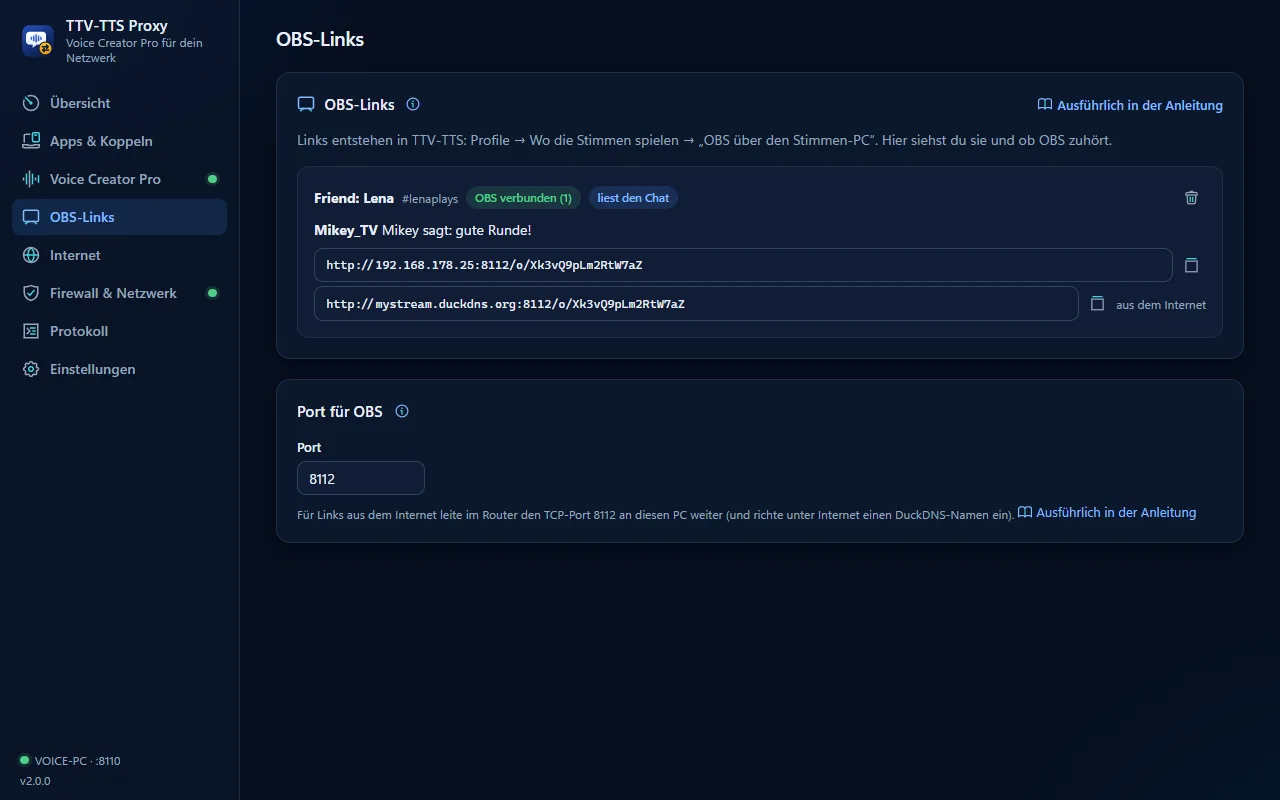
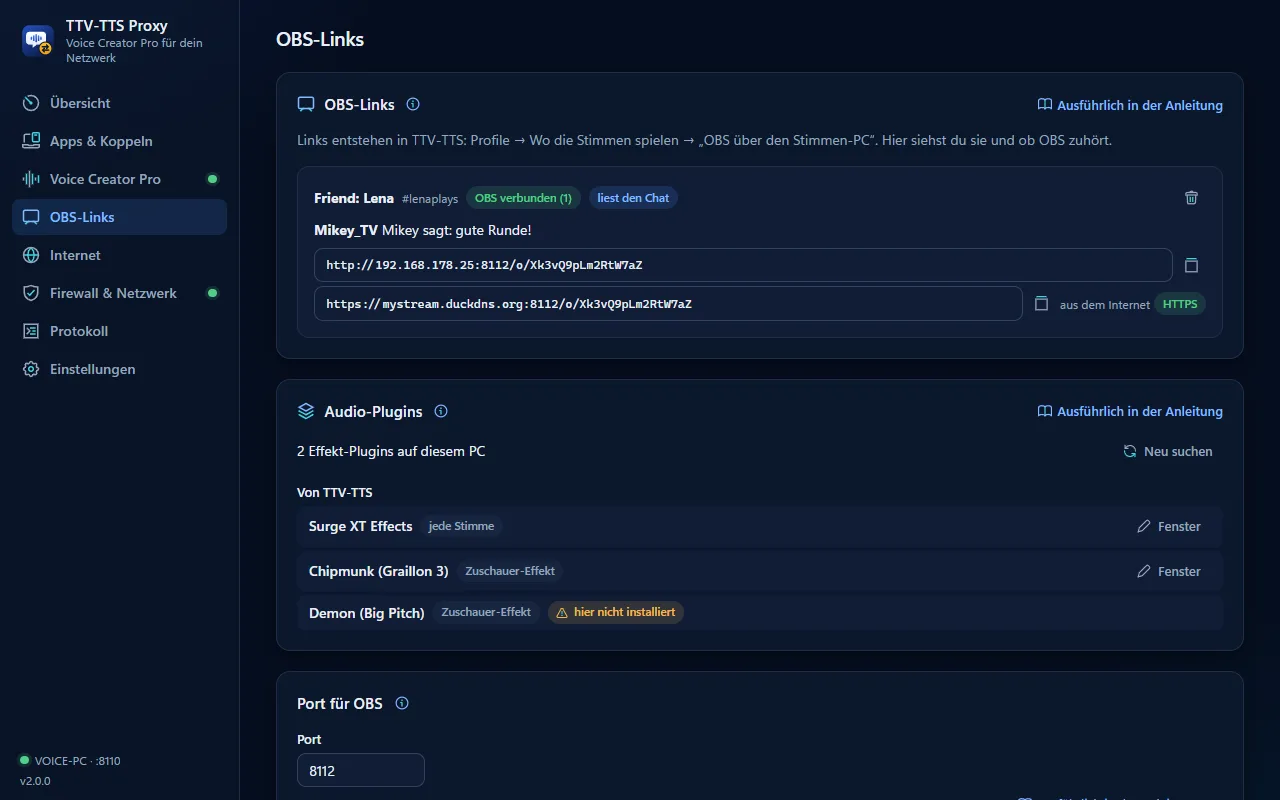
Docs EN+DE: HTTPS for internet links, UPnP, plugins on the voice host PC, plugin effects for viewers, system voices
New sections obs#https, friends#router (UPnP, FRITZ!Box), effects#host-plugins,
effects#viewer-plugins, settings#system-voice, profiles#viewer-plugins; new
screenshots (settings-viewer-plugins, settings-os-voices, proxy-internet-https)
and refreshed ones; singular/plural for the open-ports line; demo ?https state.

diff --git a/apps/app/src/i18n/de.ts b/apps/app/src/i18n/de.ts
@@ -866,7 +866,7 @@ const de: typeof en = {
     events: "Standardmäßig aus – Chatbots wie WizeBot oder Streamlabs sagen oft schon an. Eingeschaltet werden Abos, verschenkte Abos, Raids und Cheers in der Profilsprache vorgelesen. 20 verschenkte Abos auf einmal sind eine Ansage, nicht 21. Klappt ohne Twitch-Anmeldung.",
     eventsVoice: "Eine Stimme für alle Ansagen, damit sie sich vom Chat abheben. Jede Stimme aus Voice Creator Pro.",
     eventsTexts: "Leere Felder nehmen den angezeigten Satz. Platzhalter: {'{user}'}, {'{months}'}, {'{recipient}'}, {'{count}'}, {'{viewers}'}, {'{bits}'}, {'{reward}'}.",
-    osFallback: "Kann Voice Creator Pro oder sein PC gerade nicht sprechen (beendet, startet neu, nicht erreichbar), liest die Stimme deines Betriebssystems die Nachrichten, statt sie zu überspringen – schlicht, aber der Chat geht nicht verloren. Windows nimmt eine installierte Stimme der Nachrichtensprache, macOS \u201esay\u201c, Linux espeak-ng.",
+    osFallback: "Kann Voice Creator Pro oder sein PC gerade nicht sprechen (beendet, startet neu, nicht erreichbar), liest die Stimme deines Betriebssystems die Nachrichten, statt sie zu überspringen – schlicht, aber der Chat geht nicht verloren. Welche Stimme pro Sprache, wie schnell und wie hoch: Einstellungen \u2192 Systemstimme.",
     hotkeys: "Die funktionieren überall, auch wenn ein Spiel oder OBS im Vordergrund ist. Feld anklicken und die Kombination drücken; Esc bricht ab. Eine Kombination, die ein anderes Programm schon nutzt, geht nicht.",
     pending: "Freigabe ist für dieses Profil an: Nichts wird vorgelesen, bevor du es hier (oder per Tastenkürzel) freigibst. Was niemand freigibt, wird nach der eingestellten Zeit verworfen.",
     approval: "Für heikle Streams: Jede Nachricht wartet auf der Live-Seite, bis du sie per Klick oder Tastenkürzel freigibst.",

diff --git a/apps/app/src/i18n/en.ts b/apps/app/src/i18n/en.ts
@@ -864,7 +864,7 @@ export default {
     events: "Off by default – chat bots like WizeBot or Streamlabs often announce already. When on, subs, gifted subs, raids and cheers are read in the profile's language. 20 gifted subs at once are one announcement, not 21. Works without a Twitch login.",
     eventsVoice: "One voice for all announcements, so they sound different from chat. Any voice of Voice Creator Pro.",
     eventsTexts: "Empty fields use the sentence shown. Placeholders: {'{user}'}, {'{months}'}, {'{recipient}'}, {'{count}'}, {'{viewers}'}, {'{bits}'}, {'{reward}'}.",
-    osFallback: "If Voice Creator Pro or its PC can't speak (stopped, restarting, unreachable), your operating system's own voice reads the messages instead of skipping them – plain, but chat isn't lost. Windows uses an installed voice of the message's language, macOS \u201csay\u201d, Linux espeak-ng.",
+    osFallback: "If Voice Creator Pro or its PC can't speak (stopped, restarting, unreachable), your operating system's own voice reads the messages instead of skipping them – plain, but chat isn't lost. Which voice per language, how fast and how high: Settings \u2192 System voice.",
     hotkeys: "These work everywhere, also while a game or OBS has the focus. Click a field and press the combination; Esc cancels. A combination another program already uses can't be taken.",
     pending: "Approval is on for this profile: nothing is read until you OK it here (or with the hotkey). Messages nobody approves are dropped after the set minutes.",
     approval: "For sensitive streams: every message waits on the Live page until you approve it with a click or a hotkey.",

diff --git a/packages/ui/src/i18n/friends.ts b/packages/ui/src/i18n/friends.ts
@@ -18,7 +18,7 @@ export const friendsEn = {
   duckSaved: "Saved.",
   upnpToggle: "Open the ports in the router by itself (UPnP)",
   upnpHint: "Only the ports of what you share on the internet, only to this PC, closed again when not needed.",
-  upnpOpen: "Ports {ports} are open in the router ({router}) to this PC.",
+  upnpOpen: "Port {ports} is open in the router ({router}) to this PC. | Ports {ports} are open in the router ({router}) to this PC.",
   upnpNoPublic: "Your connection has no public IPv4 address of its own (DS-Lite or carrier NAT; the router got {ip}): nothing from the internet gets through, open ports or not. Ask your provider for a public IPv4 address, or use Tailscale.",
   upnpOff: "Off: forward the ports in the router yourself.",
   upnpAsking: "Asking the router …",
@@ -87,7 +87,7 @@ export const friendsDe = {
   duckSaved: "Gespeichert.",
   upnpToggle: "Ports im Router selbst öffnen (UPnP)",
   upnpHint: "Nur die Ports dessen, was du im Internet teilst, nur zu diesem PC, und wieder geschlossen, wenn sie nicht mehr gebraucht werden.",
-  upnpOpen: "Ports {ports} sind im Router ({router}) zu diesem PC offen.",
+  upnpOpen: "Port {ports} ist im Router ({router}) zu diesem PC offen. | Ports {ports} sind im Router ({router}) zu diesem PC offen.",
   upnpNoPublic: "Dein Anschluss hat keine eigene öffentliche IPv4-Adresse (DS-Lite oder Carrier-NAT; der Router bekam {ip}): Aus dem Internet kommt nichts durch, offene Ports hin oder her. Frag deinen Anbieter nach einer öffentlichen IPv4-Adresse, oder nimm Tailscale.",
   upnpOff: "Aus: Leite die Ports im Router selbst weiter.",
   upnpAsking: "Frage den Router …",

diff --git a/packages/ui/src/components/RouterStatus.vue b/packages/ui/src/components/RouterStatus.vue
@@ -20,7 +20,7 @@ const kind = computed(() => {
 
 <template>
   <div class="text-sm" data-upnp>
-    <p v-if="kind === 'open'" class="flex items-start gap-1.5 text-ok"><CircleCheck :size="15" class="mt-0.5 shrink-0" />{{ t("friends.upnpOpen", { ports: status!.mapped.join(", "), router: status!.router ?? "?" }) }}</p>
+    <p v-if="kind === 'open'" class="flex items-start gap-1.5 text-ok"><CircleCheck :size="15" class="mt-0.5 shrink-0" />{{ t("friends.upnpOpen", { ports: status!.mapped.join(", "), router: status!.router ?? "?" }, status!.mapped.length) }}</p>
     <p v-else-if="kind === 'nopublic'" class="flex items-start gap-1.5 text-warn"><Warning :size="15" class="mt-0.5 shrink-0" />{{ t("friends.upnpNoPublic", { ip: status!.external_ip ?? "?" }) }}</p>
     <p v-else-if="kind === 'failed'" class="flex items-start gap-1.5 text-warn"><Warning :size="15" class="mt-0.5 shrink-0" />{{ status!.error }}</p>
     <p v-else-if="kind === 'off'" class="flex items-start gap-1.5 text-muted"><Network :size="15" class="mt-0.5 shrink-0" />{{ t("friends.upnpOff") }}</p>

diff --git a/packages/ui/src/friends.ts b/packages/ui/src/friends.ts
@@ -128,6 +128,11 @@ export function demoFriends(): FriendsApi {
     https: { domain: null, valid_from: null, valid_until: null, renew_at: null, step: null, error: null, error_at: null, next_try: null, staging: false },
     obs_online: true,
   };
+  // ?https: a name and a valid certificate already (screenshots)
+  if (typeof location !== "undefined" && new URLSearchParams(location.search).has("https")) {
+    Object.assign(internet, { domain: "mystream", duckdns_token: true, duckdns_at: now() - 120, duckdns_result: "OK", address: "mystream.duckdns.org:8111" });
+    internet.https = { ...internet.https!, domain: "mystream.duckdns.org", valid_from: now() - 3 * 86400, valid_until: now() + 87 * 86400, renew_at: now() + 57 * 86400 };
+  }
   const wait = (ms: number) => new Promise((res) => setTimeout(res, ms));
   return {
     status: async () => structuredClone(internet),

diff --git a/apps/app/src/components/PluginsCard.vue b/apps/app/src/components/PluginsCard.vue
@@ -131,6 +131,7 @@ const fmt = (p: PluginInfo) => (p.format === "clap" ? "CLAP" : "VST3");
     </ol>
 
     <!-- plugin effects for viewers -->
+    <div data-viewer-variants>
     <div class="mt-5 mb-1.5 flex items-center gap-2" data-variants>
       <Mask :size="16" class="text-muted" />
       <span class="label m-0">{{ t("settings.variantsTitle") }}</span><UiTip :text="t('tips.viewerPlugins')" />
@@ -156,6 +157,7 @@ const fmt = (p: PluginInfo) => (p.format === "clap" ? "CLAP" : "VST3");
         </span>
       </li>
     </ul>
+    </div>
     <p class="mt-3 text-xs text-muted">{{ t("settings.pluginsFree") }} <UiDocs page="effects" anchor="free-plugins" :label="t('settings.pluginsFreeLink')" /></p>
 
     <UiModal v-if="adding" :title="adding === 'variant' ? t('settings.variantsAddTitle') : t('settings.pluginsAddTitle')" width="max-w-xl" @close="adding = null">

diff --git a/docs/site/pages/de/obs.md b/docs/site/pages/de/obs.md
@@ -52,7 +52,7 @@ Ab dann:
 
 ![Die Seite OBS-Links des Proxys](proxy-obs.webp)
 
-Was auf dem Gaming-PC bleibt und für diese Profile nicht gilt: [Audio-Plugins](effects#plugins), die [Twitch-Anmeldung](settings#twitch) (Follows und Kanalpunkte-Belohnungen ohne Text), Übersetzen mit DeepL, die Systemstimme als Ersatz, Hotkeys und die [Fernsteuerung](remote-api). Subs, Raids und Cheers werden wie gewohnt angesagt: Sie kommen mit dem Chat.
+[Audio-Plugins](effects#host-plugins), die auch auf dem Stimmen-PC installiert sind, laufen dort, mit den Einstellungen aus TTV-TTS. Was auf dem Gaming-PC bleibt und für diese Profile nicht gilt: Plugins, die nur dort installiert sind, die [Twitch-Anmeldung](settings#twitch) (Follows und Kanalpunkte-Belohnungen ohne Text), Übersetzen mit DeepL, die Systemstimme als Ersatz, Hotkeys und die [Fernsteuerung](remote-api). Subs, Raids und Cheers werden wie gewohnt angesagt: Sie kommen mit dem Chat.
 
 ## Für einen Freund: über das Internet {#online}
 
@@ -60,18 +60,37 @@ Leih deine Stimmen: Dein Freund fügt **einen Link** in sein OBS ein. Dein Stimm
 
 1. **Ein Profil für deinen Freund**: Leg in TTV-TTS ein neues Profil an, trag den Twitch-Kanal deines Freundes ein und wähl die Stimmen, die er bekommen soll.
 2. **Wo die Stimmen spielen** → **OBS über den Stimmen-PC** → **Auch aus dem Internet** einschalten.
-3. **Ein Name: DuckDNS.** Deine Internetadresse ändert sich ab und zu. [DuckDNS](https://www.duckdns.org) gibt dir kostenlos einen festen Namen wie `meinstream.duckdns.org`: mit GitHub oder Google anmelden, einen Namen wählen und den Token kopieren. Trag beides auf der Seite **Internet** des Proxys ein (wie [für den Zugang von Freunden](friends#duckdns)); der Proxy hält den Namen auf dich gerichtet.
-4. **Den Port im Router öffnen**: Leite den **TCP-Port 8112** (den OBS-Port) an den Stimmen-PC weiter. Bei einer FRITZ!Box: Internet → Freigaben → Portfreigaben → den Stimmen-PC → Neue Freigabe → TCP, Port 8112 an Port 8112. Andere Router nennen es *Portweiterleitung* oder *virtueller Server*.
-5. Den **Internet-Link** (`http://meinstream.duckdns.org:8112/o/…`) kopieren und deinem Freund per Privatnachricht schicken.
+3. **Ein Name: DuckDNS.** Deine Internetadresse ändert sich ab und zu. [DuckDNS](https://www.duckdns.org) gibt dir kostenlos einen festen Namen wie `meinstream.duckdns.org`: mit GitHub oder Google anmelden, einen Namen wählen und den Token kopieren. Trag beides auf der Seite **Internet** des Proxys ein (wie [für den Zugang von Freunden](friends#duckdns)). Der Proxy hält den Namen auf dich gerichtet (alle 5 Minuten, die tägliche Zwangstrennung vieler Anschlüsse ist also egal) und holt sich selbst ein **HTTPS-Zertifikat** dafür ([HTTPS](#https)).
+4. **Der Port im Router**: Der Proxy öffnet den **TCP-Port 8112** (den OBS-Port) selbst per [UPnP](friends#router); die Seite **Internet** zeigt dann *Port … ist im Router offen*. Lässt dein Router das nicht zu, leite den Port von Hand weiter: bei einer FRITZ!Box: Internet → Freigaben → Portfreigaben → den Stimmen-PC → Neue Freigabe → TCP, Port 8112 an Port 8112. Andere Router nennen es *Portweiterleitung* oder *virtueller Server*.
+5. Warte, bis der Link **HTTPS** zeigt (das erste Zertifikat dauert etwa eine Minute), kopier den **Internet-Link** (`https://meinstream.duckdns.org:8112/o/…`) und schick ihn deinem Freund per Privatnachricht.
 
 > [!WARNING]
-> **Der Link ist das Passwort.** Er hat 16 zufällige Zeichen. Eine Adresse, die falsche Links probiert, wird für 15 Minuten gesperrt, und ein Link kann nur den Ton dieses einen Profils abspielen: Er kann nichts ändern und kommt weder an Voice Creator Pro noch in dein Netzwerk. OBS-Links nutzen einfaches HTTP, weil OBS das eigene Zertifikat des Proxys nicht annimmt. Wer den Netzwerkverkehr deines Freundes mitlesen kann, könnte also den Link sehen und mithören. Gib ihn nur Leuten, denen du vertraust, und ersetze ihn bei Bedarf mit **Neuer Link**. Links ohne **Auch aus dem Internet** lehnen jede Adresse außerhalb deines Netzwerks ab.
+> **Der Link ist das Passwort.** Er hat 16 zufällige Zeichen. Eine Adresse, die falsche Links probiert, wird für 15 Minuten gesperrt, und ein Link kann nur den Ton dieses einen Profils abspielen: Er kann nichts ändern und kommt weder an Voice Creator Pro noch in dein Netzwerk. Mit einem DuckDNS-Namen und seinem Token nutzt der Link **HTTPS**: Niemand unterwegs kann ihn sehen oder mithören. Sobald das klappt, öffnet sich die einfache `http://`-Fassung des Links aus dem Internet nicht mehr. Ohne DuckDNS (nur mit deiner IP-Adresse) bleibt der Link einfaches HTTP und zeigt *unverschlüsselt*. Gib ihn nur Leuten, denen du vertraust, und ersetze ihn bei Bedarf mit **Neuer Link**. Links ohne **Auch aus dem Internet** lehnen jede Adresse außerhalb deines Netzwerks ab.
 
 Dein Stimmen-PC muss an sein, während dein Freund streamt; Wake-on-LAN und Autostart helfen ([Stimmen-Host](voice-host)). Nachrichten für den Stream eines Freundes behandelt er wie deinen eigenen Chat: Sie kommen vor dem Berechnen von Stimmen, das dann pausiert.
 
 Keine öffentliche IPv4-Adresse (DS-Lite)? Dann klappt die Portweiterleitung über IPv4 nicht. Frag deinen Anbieter nach einer öffentlichen IPv4-Adresse, oder nimm [Tailscale](friends#tailscale), wenn dein Freund es installieren kann.
 
-Du kannst auch **OBS auf diesem PC** aus dem Internet erreichbar machen (Port 8131 an den Gaming-PC weiterleiten und deinen DuckDNS-Namen als **Adresse aus dem Internet** eintragen). Der Stimmen-PC ist aber die bessere Wahl: Dann hängt der Stream deines Freundes nicht davon ab, dass dein Gaming-PC läuft.
+Du kannst auch **OBS auf diesem PC** aus dem Internet erreichbar machen: Trag deinen DuckDNS-Namen als **Adresse aus dem Internet** ein und seinen Token. TTV-TTS hält den Namen dann auf diesen PC gerichtet, öffnet Port 8131 im Router (UPnP) und holt das HTTPS-Zertifikat selbst, wie der Proxy. Der Stimmen-PC ist aber die bessere Wahl: Dann hängt der Stream deines Freundes nicht davon ab, dass dein Gaming-PC läuft.
+
+## HTTPS für Links aus dem Internet {#https}
+
+HTTPS verschlüsselt den Link und den Ton: Niemand zwischen dir und deinem Freund kann den Link lesen (er ist das Passwort) oder mithören. Von Zertifikaten musst du nichts wissen: Mit einem **DuckDNS-Namen und seinem Token** erledigen TTV-TTS und TTV-TTS Proxy das selbst.
+
+![HTTPS und UPnP auf der Seite Internet des Proxys](proxy-internet-https.webp)
+
+So läuft es ab:
+
+1. Sobald ein Link im Internet geteilt wird, fragt TTV-TTS bei [Let's Encrypt](https://letsencrypt.org) (einer kostenlosen, gemeinnützigen Zertifizierungsstelle, der Browser und OBS vertrauen) ein Zertifikat für `deinname.duckdns.org` an.
+2. Let's Encrypt will einen Beweis, dass der Name dir gehört: einen Code im DNS-Eintrag des Namens. TTV-TTS legt ihn über DuckDNS dort ab, wartet, bis die Nameserver von DuckDNS ihn zeigen, und Let's Encrypt prüft ihn. Dafür muss **kein weiterer Port** offen sein, und es ist egal, dass sich deine Internetadresse ändert: Das Zertifikat gilt für den Namen.
+3. Zertifikat und Schlüssel bleiben auf dem PC (der Schlüssel verlässt ihn nie). Der Link wird zu `https://…` – beim ersten Mal dauert das etwa eine Minute.
+4. Zertifikate gelten ein paar Wochen (Let's Encrypt verkürzt sie: heute 90 Tage, ab 2028 45 Tage). TTV-TTS erneuert sie selbst, wenn zwei Drittel der Zeit um sind, oder früher, wenn Let's Encrypt darum bittet. Links und OBS laufen dabei weiter.
+
+Die Statuszeile zeigt, was passiert: *HTTPS-Zertifikat für … gültig bis …*, *Hole ein kostenloses HTTPS-Zertifikat …* mit dem aktuellen Schritt, oder warum es nicht geklappt hat und wann es neu versucht. **OBS-Links aus dem Internet nutzen HTTPS** schaltet es aus (dann ist der Link einfaches HTTP und zeigt *unverschlüsselt*). Mit der Nutzung akzeptierst du die [Let's-Encrypt-Nutzungsvereinbarung](https://letsencrypt.org/repository/).
+
+- **Links in deinem eigenen Netzwerk** bleiben einfaches `http://` (für eine LAN-Adresse gibt es kein öffentliches Zertifikat, und von außen sieht niemand diesen Verkehr). Derselbe Port bedient beides.
+- **Das TTV-TTS von Freunden** (über [den Internet-Port](friends)) war schon vorher verschlüsselt: Sein Einladungscode trägt das eigene Zertifikat des Proxys. Dafür braucht es kein Let's-Encrypt-Zertifikat.
+- **Wenn es scheitert** (zum Beispiel ein falscher Token: *DuckDNS said KO*), versucht TTV-TTS es nach 15 Minuten wieder, dann seltener – Let's Encrypt erlaubt nur wenige fehlgeschlagene Prüfungen pro Stunde. So lange bleibt der Link einfaches HTTP und ist als *unverschlüsselt* markiert.
 
 ## Wenn etwas nicht klappt {#troubleshooting}
 
@@ -79,4 +98,5 @@ Du kannst auch **OBS auf diesem PC** aus dem Internet erreichbar machen (Port 81
 - **Verbunden, aber kein Ton in OBS**: **Audio über OBS steuern** angehakt? Steht der Regler der Quelle im Audio-Mixer oben, und ist sie nicht stumm?
 - **Nachrichten melden „niemand hört zu (OBS ist nicht verbunden)“**: Das Profil spielt in OBS, aber keine Browserquelle hat seinen Link geöffnet. TTV-TTS lässt Voice Creator Pro dann nicht umsonst arbeiten.
 - **Eine Testnachricht auf dem Stimmen-PC klappt nicht**: Er liest nur, solange OBS zuhört. Öffne zuerst den Link in OBS.
-- **Der Link aus dem Internet öffnet sich nicht**: Sagt die Seite **Internet** des Proxys *Erreichbar*? Dann prüf die Weiterleitung von Port **8112** (nicht 8111, der ist für das TTV-TTS von Freunden).
+- **Der Link aus dem Internet öffnet sich nicht**: Sagt die Seite **Internet** des Proxys *Erreichbar* und *Ports … sind im Router offen*? Dann prüf die Weiterleitung von Port **8112** (nicht 8111, der ist für das TTV-TTS von Freunden).
+- **OBS zeigt „This TTV-TTS link needs https:// now“**: Der Link wurde kopiert, bevor das Zertifikat da war. Kopier den neuen `https://`-Link aus TTV-TTS in OBS.

diff --git a/docs/site/pages/obs.md b/docs/site/pages/obs.md
@@ -52,7 +52,7 @@ From then on:
 
 ![The OBS links page of the proxy](proxy-obs.webp)
 
-What stays on the gaming PC and doesn't apply to these profiles: [audio plugins](effects#plugins), the [Twitch login](settings#twitch) (follows and channel-point rewards without text), DeepL translation, the system voice as a fallback, hotkeys and the [remote control](remote-api). Subs, raids and cheers are announced as usual: they arrive with the chat.
+[Audio plugins](effects#host-plugins) the voice host PC has installed too run there, with the settings from TTV-TTS. What stays on the gaming PC and doesn't apply to these profiles: plugins only installed there, the [Twitch login](settings#twitch) (follows and channel-point rewards without text), DeepL translation, the system voice as a fallback, hotkeys and the [remote control](remote-api). Subs, raids and cheers are announced as usual: they arrive with the chat.
 
 ## For a friend: over the internet {#online}
 
@@ -60,18 +60,37 @@ Lend your voices: your friend pastes **one link** into their OBS. Your voice hos
 
 1. **A profile for your friend**: in TTV-TTS create a new profile, enter your friend's Twitch channel and choose the voices they should get.
 2. **Where the voices play** → **OBS through the voice host PC** → switch on **Also from the internet**.
-3. **A name: DuckDNS.** Your internet address changes now and then. [DuckDNS](https://www.duckdns.org) gives you a free, fixed name like `mystream.duckdns.org`: sign in with GitHub or Google, pick a name and copy the token. Enter both in the proxy's **Internet** page (the same as [for friends' access](friends#duckdns)); the proxy keeps the name pointing at you.
-4. **Open the port on your router**: forward **TCP port 8112** (the OBS port) to the voice host PC. On a FRITZ!Box: Internet → Permit Access → Port Sharing → the voice host PC → New Sharing → TCP, port 8112 to port 8112. Other routers call it *port forwarding* or *virtual server*.
-5. Copy the **internet link** (`http://mystream.duckdns.org:8112/o/…`) and send it to your friend in a private message.
+3. **A name: DuckDNS.** Your internet address changes now and then. [DuckDNS](https://www.duckdns.org) gives you a free, fixed name like `mystream.duckdns.org`: sign in with GitHub or Google, pick a name and copy the token. Enter both in the proxy's **Internet** page (the same as [for friends' access](friends#duckdns)). The proxy keeps the name pointing at you (every 5 minutes, so the daily reconnect of many connections doesn't matter) and gets an **HTTPS certificate** for it by itself ([HTTPS](#https)).
+4. **The port on your router**: the proxy opens **TCP port 8112** (the OBS port) itself with [UPnP](friends#router); the **Internet** page then says *Port … is open in the router*. If your router doesn't allow that, forward the port by hand: on a FRITZ!Box: Internet → Permit Access → Port Sharing → the voice host PC → New Sharing → TCP, port 8112 to port 8112. Other routers call it *port forwarding* or *virtual server*.
+5. Wait until the link shows **HTTPS** (the first certificate takes about a minute), copy the **internet link** (`https://mystream.duckdns.org:8112/o/…`) and send it to your friend in a private message.
 
 > [!WARNING]
-> **The link is the password.** It has 16 random characters. An address that tries wrong links is locked out for 15 minutes, and a link can do nothing but play the audio of this one profile: it can't change anything and can't reach Voice Creator Pro or your network. OBS links use plain HTTP, because OBS doesn't accept the proxy's own certificate. So whoever can watch your friend's network traffic could see the link and listen along. Only give it to people you trust, and replace it with **New link** if needed. Links without **Also from the internet** refuse every address outside your network.
+> **The link is the password.** It has 16 random characters. An address that tries wrong links is locked out for 15 minutes, and a link can do nothing but play the audio of this one profile: it can't change anything and can't reach Voice Creator Pro or your network. With a DuckDNS name and its token the link uses **HTTPS**, so nobody on the way can see it or listen along; once that works, the plain `http://` version of the link no longer opens from the internet. Without DuckDNS (only your IP address) the link stays plain HTTP and says *not encrypted*. Only give it to people you trust, and replace it with **New link** if needed. Links without **Also from the internet** refuse every address outside your network.
 
 Your voice host PC has to be on while your friend streams; Wake-on-LAN and autostart help ([Voice host](voice-host)). Messages for a friend's stream are treated like your own chat: they go before voice computations, which then pause.
 
 No public IPv4 address (DS-Lite)? Then port forwarding can't work over IPv4. Ask your provider for a public IPv4 address, or use [Tailscale](friends#tailscale) if your friend can install it.
 
-You can also make **OBS on this PC** reachable from the internet (forward port 8131 to the gaming PC and enter your DuckDNS name as **Address from the internet**). The voice host PC is the better choice, though: then your friend's stream doesn't depend on your gaming PC being on.
+You can also make **OBS on this PC** reachable from the internet: enter your DuckDNS name as **Address from the internet** and its token. TTV-TTS then keeps the name pointing at this PC, opens port 8131 in the router (UPnP) and gets the HTTPS certificate itself, like the proxy. The voice host PC is the better choice, though: then your friend's stream doesn't depend on your gaming PC being on.
+
+## HTTPS for links from the internet {#https}
+
+HTTPS encrypts the link and the audio, so nobody between you and your friend can read the link (it is the password) or listen along. You don't have to know anything about certificates: with a **DuckDNS name and its token**, TTV-TTS and TTV-TTS Proxy do it themselves.
+
+![HTTPS and UPnP on the proxy's Internet page](proxy-internet-https.webp)
+
+What happens:
+
+1. As soon as a link is shared on the internet, TTV-TTS asks [Let's Encrypt](https://letsencrypt.org) (a free, non-profit certificate authority that browsers and OBS trust) for a certificate for `yourname.duckdns.org`.
+2. Let's Encrypt wants proof that the name is yours: a code in the name's DNS record. TTV-TTS puts it there through DuckDNS, waits until DuckDNS's name servers show it, and Let's Encrypt checks it. **No extra port** has to be open for this, and it doesn't matter that your internet address changes: the certificate is for the name.
+3. The certificate and its key stay on the PC (the key never leaves it). The link changes to `https://…` – the first time takes about a minute.
+4. Certificates last a few weeks (Let's Encrypt is making them shorter: 90 days today, 45 days from 2028). TTV-TTS renews them on its own when two thirds of the time have passed, or earlier when Let's Encrypt asks for it. Links and OBS keep running meanwhile.
+
+The status line shows what's going on: *HTTPS certificate for … valid until …*, *Getting a free HTTPS certificate …* with the current step, or why it didn't work and when it tries again. **OBS links from the internet use HTTPS** switches it off (then the link is plain HTTP and says *not encrypted*). By using it you accept the [Let's Encrypt Subscriber Agreement](https://letsencrypt.org/repository/).
+
+- **Links in your own network** stay plain `http://` (there's no public certificate for a LAN address, and nobody outside sees that traffic). The same port serves both.
+- **Friends' TTV-TTS** (over [the internet port](friends)) was already encrypted before: its invite code carries the proxy's own certificate. That needs no Let's Encrypt certificate.
+- **When it fails** (for example a wrong token: *DuckDNS said KO*), TTV-TTS tries again after 15 minutes, then less often – Let's Encrypt only allows a few failed checks per hour. Meanwhile the link stays plain HTTP, marked *not encrypted*.
 
 ## Troubleshooting {#troubleshooting}
 
@@ -79,4 +98,5 @@ You can also make **OBS on this PC** reachable from the internet (forward port 8
 - **Connected, but no sound in OBS**: **Control audio via OBS** ticked? Is the source's fader up in the Audio Mixer, and not muted?
 - **Messages say “nobody listens (OBS isn't connected)”**: the profile plays in OBS, but no browser source has its link open. TTV-TTS then doesn't make Voice Creator Pro work for nothing.
 - **A test message on the voice host PC fails**: it only reads while OBS listens. Open the link in OBS first.
-- **The link from the internet doesn't open**: does the proxy's **Internet** page say *Reachable*? Then check the forwarding of port **8112** (not 8111, which is for friends' TTV-TTS).
+- **The link from the internet doesn't open**: does the proxy's **Internet** page say *Reachable* and *Ports … are open in the router*? Then check the forwarding of port **8112** (not 8111, which is for friends' TTV-TTS).
+- **OBS shows “This TTV-TTS link needs https:// now”**: the link was copied before the certificate was there. Copy the new `https://` link from TTV-TTS into OBS.

diff --git a/docs/site/pages/de/effects.md b/docs/site/pages/de/effects.md
@@ -10,7 +10,7 @@ Effekte kommen hinzu, nachdem Voice Creator Pro gesprochen hat. Die Stimme selbs
 
 - **Mit TTV-TTS Proxy auf einem zweiten PC** wendet der Stimmen-PC die eingebauten Effekte (und die Lautstärkeanpassung jeder Stimme) gleich nach dem Erzeugen der Stimme an. Dein Gaming-PC spielt nur ab, was ankommt. Das ist die Voreinstellung: **Einstellungen → Ton → Stimmeffekte auf dem Stimmen-PC**. Schalte es aus, um sie stattdessen auf diesem PC anzuwenden.
 - **Mit Voice Creator Pro auf diesem PC** (oder dem Stimmen-Host eines Freundes) wendet dieser PC sie an. Sie kosten ein paar Millisekunden pro Satz.
-- **Audio-Plugins** (VST3, CLAP) laufen immer auf dem PC, auf dem TTV-TTS läuft, weil sie dort installiert sind.
+- **Audio-Plugins** (VST3, CLAP) laufen auch auf dem Stimmen-PC, wenn sie dort installiert sind ([Plugins auf dem Stimmen-PC](#host-plugins)); sonst auf diesem PC.
 - **[OBS-Links über den Stimmen-PC](obs#host)** erledigen alles auf dem Stimmen-PC.
 
 ## Eingebaute Stimmeffekte {#builtin}
@@ -44,7 +44,7 @@ Unter **Einstellungen → Audio-Plugins** kannst du Effekt-Plugins auf jede Stim
 - **Plugin hinzufügen …** listet die Effekte in den üblichen Plugin-Ordnern (jede Datei wird einmal geladen, um zu erfahren, was sie ist), oder **Aus einer Datei …** für eine `.vst3` oder `.clap` irgendwo.
 - Die Kette läuft von oben nach unten, nach den eingebauten Effekten. Mit den Pfeilen änderst du die Reihenfolge, mit dem Schalter umgehst du eins, mit dem Papierkorb entfernst du es.
 - **Bearbeiten** öffnet das eigene Fenster des Plugins (Windows). Seine Einstellungen werden beim Schließen gespeichert und sind nach einem Neustart wieder da.
-- Die Plugins laufen auf einem eigenen Thread in der Abtastrate deines Ausgabegeräts. Gemessen mit zwei Plugins: etwa 15 ms Arbeit pro Sekunde Sprache – nichts, was du merkst.
+- Die Plugins laufen auf einem eigenen Thread in der Abtastrate deines Ausgabegeräts (auf dem Stimmen-PC mit 48 kHz). Gemessen mit zwei Plugins: etwa 15 ms Arbeit pro Sekunde Sprache – nichts, was du merkst.
 
 > [!WARNING]
 > Plugins laufen in TTV-TTS. Ein fehlerhaftes Plugin kann es abstürzen lassen – füg eins nach dem anderen hinzu und teste vor einem Stream. Instrumente und VST2-Plugins gehen nicht.
@@ -60,6 +60,39 @@ TTV-TTS sucht VST3-Plugins in den üblichen VST3-Ordnern deines Systems (unter W
 sowie in den Ordnern aus der Umgebungsvariable `CLAP_PATH`.
 
 Plugin-Fenster öffnen sich vorerst nur unter Windows. Unter macOS und Linux klingen die Plugins genauso, mit den Einstellungen, die sie beim Hinzufügen hatten.
+
+### Plugins auf dem Stimmen-PC {#host-plugins}
+
+Mit TTV-TTS Proxy und **Einstellungen → Ton → Stimmeffekte auf dem Stimmen-PC** (Standard) lässt der Stimmen-PC auch die Plugins laufen; dein Gaming-PC spielt nur ab, was ankommt. TTV-TTS schickt seine Ketten mit den Einstellungen der Plugins dorthin.
+
+- **Installier das Plugin auf beiden PCs** (oder nur auf dem Stimmen-PC). Ein anderer Ordner oder eine andere Version macht nichts: TTV-TTS erkennt ein Plugin an seiner ID.
+- Jedes Plugin zeigt, wo es läuft: **Stimmen-PC**, **dieser PC** (auf dem Stimmen-PC nicht installiert) oder **nur auf dem Stimmen-PC** (nur dort installiert – dann braucht es *Stimmeffekte auf dem Stimmen-PC*).
+- Die Plugins einer Nachricht laufen alle am selben Ort, damit ihre Reihenfolge stimmt: Fehlt dem Stimmen-PC eines davon, laufen die Plugins dieser Nachricht hier.
+- **Bearbeiten** öffnet das Fenster des Plugins hier; der Server-Knopf öffnet es **auf dem Bildschirm des Stimmen-PCs** (für Plugins, die nur dort installiert sind). Seine Einstellungen kommen beim Schließen zu TTV-TTS zurück.
+- Der Stimmen-PC sucht seine Plugins, wenn TTV-TTS zum ersten Mal Plugins nutzt; nach neuen Installationen **Neu suchen**. Das Proxy-Fenster zeigt sie auf seiner Seite **OBS-Links**.
+- [OBS-Links über den Stimmen-PC](obs#host) nutzen dieselben Plugins.
+- Jeder Leser auf dem Stimmen-PC (TTV-TTS, jeder OBS-Link) hat eigene Plugin-Instanzen, ein Hall klingt also nie in einen anderen Stream hinein; Instanzen, die ein Leser 10 Minuten nicht nutzt, werden entladen.
+
+> [!WARNING]
+> Plugins laufen dort in TTV-TTS Proxy: Ein fehlerhaftes Plugin kann den Proxy abstürzen lassen. Probier neue Plugins außerhalb eines Streams aus.
+
+## Plugin-Effekte für Zuschauer {#viewer-plugins}
+
+Wie ihre Stimme können Zuschauer zufällig einen eigenen **Plugin-Effekt** bekommen – einen Pitch-Shifter als „Chipmunk“, dasselbe Plugin noch einmal als „Riese“, einen Vocoder als „Roboter“.
+
+![Plugin-Effekte für Zuschauer in den Einstellungen](settings-viewer-plugins.webp)
+
+1. **Einstellungen → Audio-Plugins → Plugin-Effekte für Zuschauer → Effekt hinzufügen …**: Gib ihm einen Namen und wähl ein Plugin.
+2. **Bearbeiten** öffnet das Fenster des Plugins: Stell es ein. Jeder Effekt behält seine eigenen Einstellungen, ein Plugin kann also mehrere Effekte sein.
+3. **Wie oft** (×1 … ×5): ×2 wird doppelt so oft gewählt wie ×1.
+4. **Profile → Stimmen → Plugin-Effekte für Zuschauer**: wie viele Zuschauer einen bekommen (0 % = aus).
+
+- Wer einen bekommt, steht pro Zuschauer fest (aus seiner Twitch-ID): Ein höherer Anteil nimmt nur Zuschauer dazu, niemand verliert seinen. Der Effekt, den ein Zuschauer bekommen hat, bleibt ihm, wie seine Stimme.
+- **Nicht auf Stimmen, die einen eigenen Effekt haben** (standardmäßig an): Eine Stimme, die schon nach Funk oder Roboter klingt, bekommt kein Plugin obendrauf.
+- Auf der Seite [Zuschauer](viewers) kannst du einem Zuschauer einen bestimmten Effekt geben, keinen, oder wieder den Zufall entscheiden lassen.
+- Der Effekt des Zuschauers läuft vor der [Kette auf jeder Stimme](#plugins).
+
+**Was es kostet**: Jeder Effekt ist eine Plugin-Instanz, die sich alle Zuschauer mit diesem Effekt teilen – zwölf Effekte (das Maximum) kosten den Speicher von zwölf Plugins, ob fünf oder fünftausend Zuschauer einen haben. Die Bearbeitung dauert für typische Effekte ein paar Millisekunden pro Sekunde Sprache (gemessen mit einem einfachen Plugin: 2–10 ms samt Umrechnung der Abtastrate). In TTV-TTS laden die Effekte beim Start und wenn du sie änderst, nicht bei der ersten Nachricht eines Zuschauers; auf dem Stimmen-PC bei der ersten Nachricht eines Lesers mit diesem Effekt (Millisekunden bis eine Sekunde, je nach Plugin).
 
 ## Kostenlose Plugins zum Ausprobieren {#free-plugins}
 
@@ -85,6 +118,7 @@ Ideen für den Anfang:
 - **Ein Roboter oder Bordcomputer**: TAL-Vocoder oder der Surge-XT-Vocoder; der eingebaute Effekt **Roboter** ist die schnelle Variante.
 - **Götter und Geister**: Valhalla Supermassive mit langem Ausklang, zu 20–30 % beigemischt.
 - **Klarere Sprache für alle**: TDR Nova als De-Esser plus ein sanfter Kompressor am Ende der Kette.
+- **Zuschauer-Effekte**: Graillon oder MAutoPitch als „Chipmunk“ (Tonhöhe +5) und „Riese“ (Tonhöhe −5), TAL-Vocoder als „Roboter“, ein langer Supermassive-Hall als „Geist“.
 
 > [!TIP]
 > Lade Plugins nur von der Seite des Herstellers (die Links oben), nie von „Gratis-Download“-Spiegelseiten – ein Plugin läuft in TTV-TTS mit deinen Rechten. Plugins, die es nur als VST2 gibt, gehen nicht.

diff --git a/docs/site/pages/de/friends.md b/docs/site/pages/de/friends.md
@@ -21,22 +21,27 @@ Du siehst bei jedem Freund den heutigen Verbrauch, wann und woher er zuletzt da 
 
 ## Einrichten {#setup}
 
-Schalte **Freunde über das Internet zulassen** ein. Der Proxy öffnet Port **8111** auf seinem PC (nur für eingeladene Freunde). Dann vier Schritte:
+Zuerst ein Name (DuckDNS – [OBS-Links aus dem Internet](obs#online) nutzen ihn auch), dann **Freunde über das Internet zulassen** einschalten. Der Proxy öffnet Port **8111** auf seinem PC (nur für eingeladene Freunde). Dann:
 
 ### 1. Ein Name: DuckDNS {#duckdns}
 
-Deine Internet-Adresse ändert sich ab und zu. [DuckDNS](https://www.duckdns.org) ist kostenlos: anmelden (mit GitHub oder Google), einen Namen wählen und den **Token** kopieren. Trag beides in der Karte ein. Der Proxy hält `deinname.duckdns.org` auf dich gerichtet. Der Token bleibt auf dem PC des Proxys, in seinem Anmeldedaten-Speicher.
+Deine Internet-Adresse ändert sich ab und zu. [DuckDNS](https://www.duckdns.org) ist kostenlos: anmelden (mit GitHub oder Google), einen Namen wählen und den **Token** kopieren. Trag beides in der Karte ein. Der Proxy hält `deinname.duckdns.org` auf dich gerichtet – alle 5 Minuten, eine neue Adresse nach der täglichen Zwangstrennung ist also nach wenigen Minuten bekannt. Er fragt den Router nach dessen Internetadresse (UPnP), so kann nicht einmal ein VPN auf diesem PC den Namen auf das VPN lenken. Der Token bleibt auf dem PC des Proxys, in seinem Anmeldedaten-Speicher.
 
 ### 2. Den Port am Router öffnen {#router}
 
-Leite **TCP-Port 8111** an den PC des Proxys weiter (seine Adresse steht auf der Seite [Stimmen-Host](voice-host#status), zum Beispiel `192.168.178.25`).
+Meist ist nichts zu tun: Mit **Ports im Router selbst öffnen (UPnP)** (standardmäßig an) bittet der Proxy den Router, genau die Ports dessen weiterzuleiten, was du teilst – 8111 für Freunde, 8112 für [OBS-Links](obs#online) –, und zwar an seinen eigenen PC. Er erneuert das alle 25 Minuten und schließt die Ports wieder, wenn sie nicht mehr gebraucht werden oder der Proxy beendet wird. Die Karte zeigt dann *Port 8111 ist im Router offen*.
+
+- **FRITZ!Box**: Sie erlaubt das nur Geräten, die du freigibst: Internet → Freigaben → Portfreigaben → der PC des Proxys → **Selbstständige Portfreigaben für dieses Gerät erlauben**. Sonst sagt die Karte, dass der Router diesem PC keine Ports öffnen lässt.
+- **UPnP im Router aus**, oder du machst es lieber selbst: Schalte **UPnP** in der Karte aus und leite den Port von Hand weiter, wie unten.
+
+Von Hand: Leite **TCP-Port 8111** an den PC des Proxys weiter (seine Adresse steht auf der Seite [Stimmen-Host](voice-host#status), zum Beispiel `192.168.178.25`).
 
 - **FRITZ!Box**: Internet → Freigaben → Portfreigaben → Gerät für Freigaben hinzufügen → der PC des Proxys → Neue Freigabe → Portfreigabe, TCP, Port 8111 bis Port 8111, „IPv4 freigeben“.
 - Andere Router nennen es *Portweiterleitung*, *Virtueller Server* oder *NAT*.
 - **Windows-Firewall**: Die Regel des Proxys deckt Port 8111 schon ab. Windows Firewall Control oder eine andere Firewall: eingehend TCP 8111 für TTV-TTS Proxy erlauben.
 
 > [!WARNING]
-> Keine öffentliche IPv4-Adresse (DS-Lite, häufig bei Kabel und Glasfaser)? Dann kann die Weiterleitung über IPv4 nicht funktionieren. Frag deinen Anbieter nach einer öffentlichen IPv4-Adresse – oder nimm Tailscale (unten).
+> Keine öffentliche IPv4-Adresse (DS-Lite, häufig bei Kabel und Glasfaser)? Dann kann die Weiterleitung über IPv4 nicht funktionieren – die Karte sagt es dir, wenn die Internetadresse des Routers keine öffentliche ist. Frag deinen Anbieter nach einer öffentlichen IPv4-Adresse – oder nimm Tailscale (unten).
 
 ### 3. Aus dem Internet prüfen {#test}
 

diff --git a/docs/site/pages/friends.md b/docs/site/pages/friends.md
@@ -21,22 +21,27 @@ You see each friend's use today, when they were last seen and from where, and ca
 
 ## Setting it up {#setup}
 
-Switch on **Allow friends over the internet**. The proxy opens port **8111** on its PC (for invited friends only). Then four steps:
+First a name (DuckDNS – [OBS links from the internet](obs#online) use it too), then switch on **Allow friends over the internet**. The proxy opens port **8111** on its PC (for invited friends only). Then:
 
 ### 1. A name: DuckDNS {#duckdns}
 
-Your internet address changes now and then. [DuckDNS](https://www.duckdns.org) is free: sign in (with GitHub or Google), pick a name and copy the **token**. Enter both in the card. The proxy keeps `yourname.duckdns.org` pointing at you. The token stays on the proxy's PC, in its credential store.
+Your internet address changes now and then. [DuckDNS](https://www.duckdns.org) is free: sign in (with GitHub or Google), pick a name and copy the **token**. Enter both in the card. The proxy keeps `yourname.duckdns.org` pointing at you – every 5 minutes, so a new address after the daily reconnect is out within minutes. It asks the router for its internet address (UPnP), so even a VPN on that PC can't point the name at the VPN. The token stays on the proxy's PC, in its credential store.
 
 ### 2. Open the port on your router {#router}
 
-Forward **TCP port 8111** to the proxy's PC (its address is on the [Voice host](voice-host#status) page, for example `192.168.178.25`).
+Usually there's nothing to do: with **Open the ports in the router by itself (UPnP)** (on by default) the proxy asks the router to forward exactly the ports of what you share – 8111 for friends, 8112 for [OBS links](obs#online) – to its own PC, renews that every 25 minutes and closes them again when they're no longer needed or the proxy quits. The card then says *Port 8111 is open in the router*.
+
+- **FRITZ!Box**: it only allows that for devices you permit: Internet → Permit Access → Port Sharing → the proxy's PC → **Permit independent port sharing for this device**. Otherwise the card says that the router doesn't let this PC open ports.
+- **UPnP off in the router**, or you prefer to do it yourself: switch **UPnP** off in the card and forward the port by hand, as below.
+
+By hand: forward **TCP port 8111** to the proxy's PC (its address is on the [Voice host](voice-host#status) page, for example `192.168.178.25`).
 
 - **FRITZ!Box**: Internet → Permit Access → Port Sharing → Add Device for Sharing → the proxy's PC → New Sharing → Port Sharing, TCP, port 8111 to port 8111, “Permit IPv4”.
 - Other routers call it *Port forwarding*, *Virtual server* or *NAT*.
 - **Windows Firewall**: the proxy's rule covers port 8111 already. Windows Firewall Control or another firewall: allow incoming TCP 8111 for TTV-TTS Proxy.
 
 > [!WARNING]
-> No public IPv4 address (DS-Lite, common with cable and fiber)? Then forwarding can't work over IPv4. Ask your provider for a public IPv4 address – or use Tailscale (below).
+> No public IPv4 address (DS-Lite, common with cable and fiber)? Then forwarding can't work over IPv4 – the card tells you when the router's internet address isn't a public one. Ask your provider for a public IPv4 address – or use Tailscale (below).
 
 ### 3. Check from the internet {#test}
 
